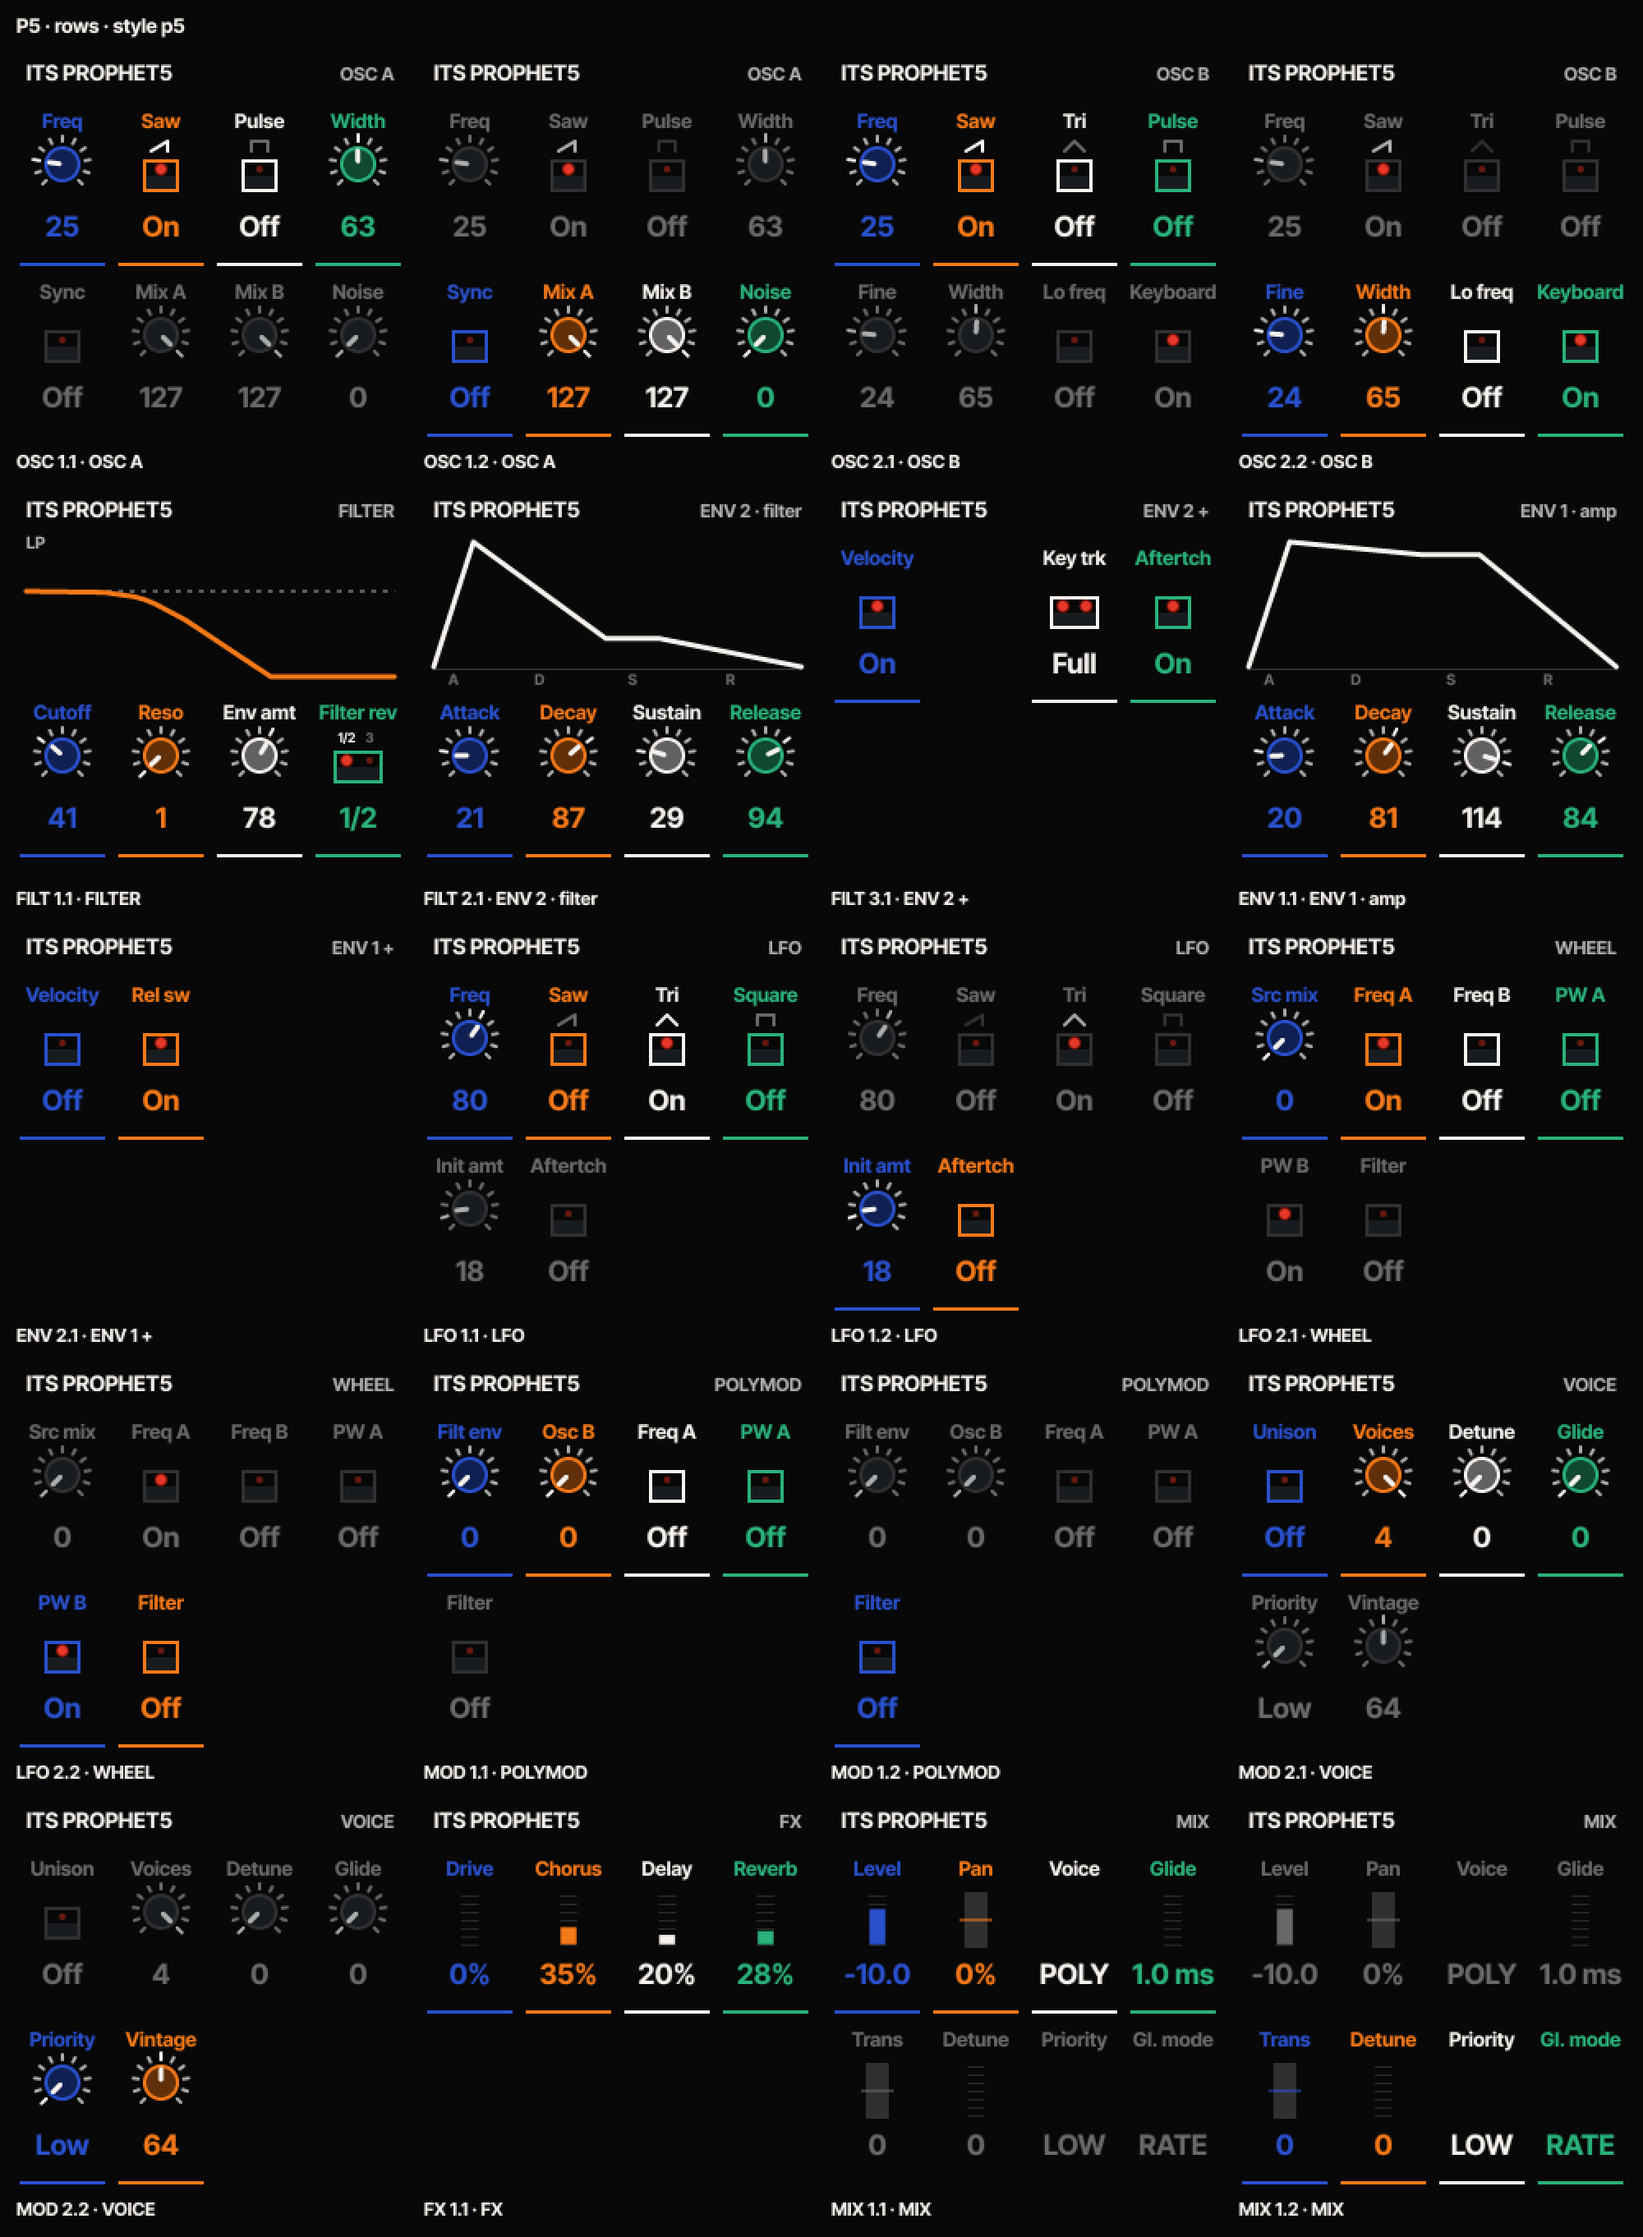
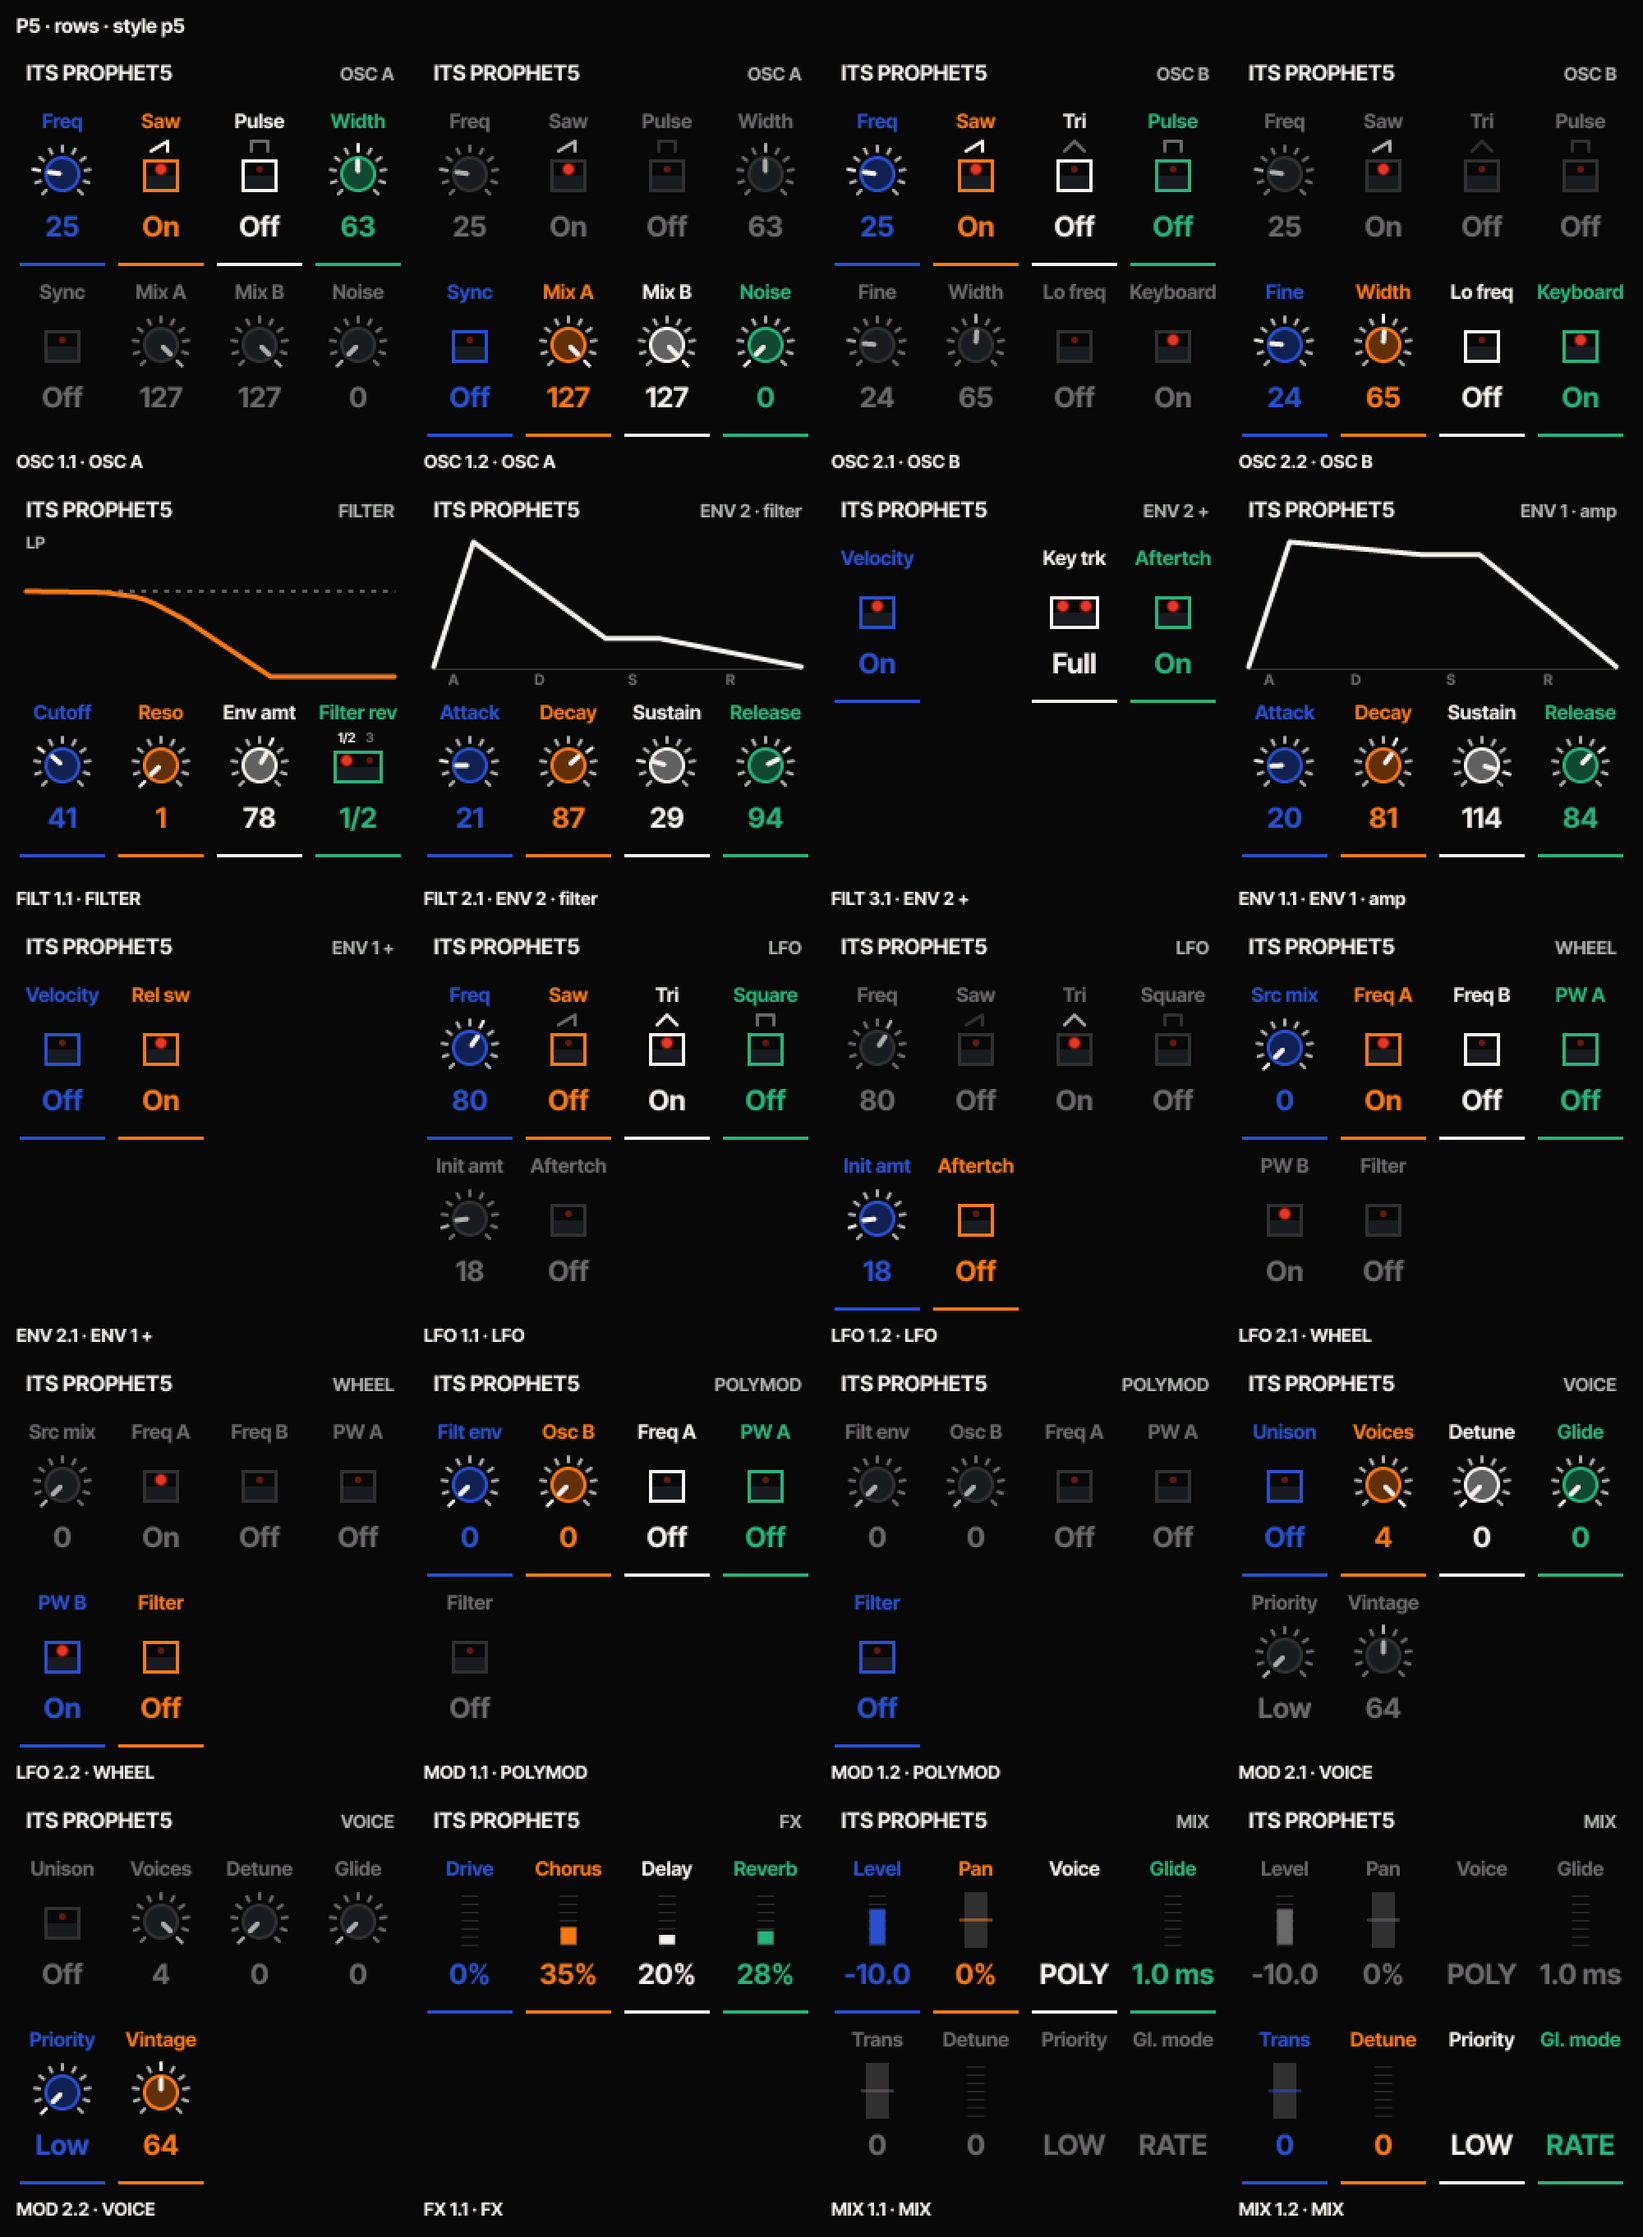
P5 knob glyph 6 px lower in a full-size cell, level with the button's LED; the knob sketches too
The owner, on OSC A: "the knob glyphs are vertically too high and not aligned with the button glyphs. I would like
the knob glyphs to be moved down vertically so they align." CR_G_P5KNOB's centre in the 34 px box is box + 18 (was
+ 12), the LED's height; the 22 px form unchanged; the sketch layer's K1 .. K6e follow. Six of the eight P5 cell
goldens change (the full-size knobs); the rows sheet rendered again; size unchanged.

diff --git a/web/fm1sketch.js b/web/fm1sketch.js
@@ -14,7 +14,8 @@
 // The glyphs are design/p5-glyph-mockups.html (round 1: K1 .. K6, B1 .. B5, S1 .. S3), -2 (K6a .. K6e, B1a .. B1d,
 // S4 .. S6), -3 (R1 .. R3) and -5 (K6d, B1a and S5 as chosen), drawn as there: the glyph centred 22 px under the
 // label's baseline (box.y + 12; the 22 px box: box.y + 10), so a sketch may reach a few pixels over the box (the
-// mock-ups' dials do); the page composites only the cell's column between its label and its value.
+// mock-ups' dials do; a knob in the 34 px box at box.y + 18, level with the buttons' LEDs, as the firmware's K6d since
+// the owner asked); the page composites only the cell's column between its label and its value.
 // To add one: a function here and a SK_REGISTRY line (its name lower case, a letter and a number, its note); a chosen
 // sketch becomes a firmware glyph by porting its function into cr_draw.c (cr_p5glyph is K6d / B1a / S5 / R3's).
 
@@ -250,7 +251,8 @@ export const SKETCH_WAVES = ["saw", "tri", "sqr"];
 // the registry's entries: {name, kind, round, note, draw(p, box, state)}
 export const SKETCHES = Object.fromEntries([...SK_REGISTRY].map(([k, v]) => [k, {
   name: v.name, kind: v.kind, round: v.round, note: v.note,
-  draw: (p, box, st) => v.f(p, box.x + (box.w >> 1), box.y + (box.h >= 30 ? 12 : 10), { ...st, C: { ...SK_MOCK, ...(st.C || {}) }, small: box.h < 30 }),
+  // (a knob in the 34 px box 6 px lower, level with the buttons' LEDs: the firmware's CR_G_P5KNOB, the owner's)
+  draw: (p, box, st) => v.f(p, box.x + (box.w >> 1), box.y + (box.h >= 30 ? (v.kind === "knob" ? 18 : 12) : 10), { ...st, C: { ...SK_MOCK, ...(st.C || {}) }, small: box.h < 30 }),
 }]));
 // a cell style -> {name, icon} when it is a known sketch ("sketch:k6d", "sketch:b1a-saw"), else null
 export function parseSketch(style) {

diff --git a/firmware/src/cr_draw.c b/firmware/src/cr_draw.c
@@ -1183,7 +1183,7 @@ static int cr_p5names(const char *b, int32_t n, const char **o)
 }
 /* a P5 cell's glyph (CR_G_P5*: docs/EDITOR.md section 9 "A cell"), in an edit8 cell's glyph box x .. x + w, y .. y + h
  * (px). A full-size cell's box (34 high): the owner's round-5 mock-up (design/p5-glyph-mockups-5.html), centred on
- * (x + w / 2, y + 12), the mock-up's 22 px under the label's baseline: K6d (the knob), B1a (the LED button and its
+ * (x + w / 2, y + 12), the mock-up's 22 px under the label's baseline (the knob 6 px lower, level with the LEDs): K6d (the knob), B1a (the LED button and its
  * wave), S5 (the two-LED lever), R3 (the two-LED button and its names). A 22 px box (two rows under a band): the
  * first pass's small variants. col: the column's colour on the active row, else T_DIM (the dim row's greys) */
 static void cr_p5glyph(const cr_cell_t *c, int32_t x, int32_t y, int32_t w, int32_t h, uint16_t col)
@@ -1197,8 +1197,10 @@ static void cr_p5glyph(const cr_cell_t *c, int32_t x, int32_t y, int32_t w, int3
         int16_t p[8];
         switch (c->glyph) {
         case CR_G_P5KNOB: {              /* K6d: 11 ticks (r 14 .. 17, 2 px; the nearest 18 and bright), the rim (r 9 ..
-                                          * 11) in the colour, the face its 40 %, the 3 px pointer (r 2 .. 8) */
+                                          * 11) in the colour, the face its 40 %, the 3 px pointer (r 2 .. 8); centred 6 px
+                                          * lower than the buttons' (box + 18: level with their LEDs, the owner's) */
             uint32_t pct = c->pct >= 255u ? 256u : c->pct, a = 24576u + 49152u * pct / 256u, k, near = (pct * 10u + 128u) / 256u;
+            cy16 += 6 * 16;
             for (k = 0; k <= 10u; k++) {
                 uint32_t ak = 24576u + 49152u * k / 10u;
                 int32_t r1 = k == near ? 18 * 16 : 17 * 16;

diff --git a/tests/cr_draw_test.c b/tests/cr_draw_test.c
@@ -547,9 +547,9 @@ static void p5cell_screens(const char *dir)
     p5cell_screen(&s, CR_W_NONE, 2, 0);           /* the glyphs' pixels: row A active at 30, row B dim at 134 */
     render(&s, 0);
     snprintf(name, sizeof name, "P5 cells: a lit LED red (%04x), the knob's nearest tick white (%04x), the saw white when on (%04x), "
-             "the dim row's square mid (%04x), the off LED dark (%04x)", p5px(90, 71), p5px(29, 52), p5px(93, 57), p5px(94, 161),
+             "the dim row's square mid (%04x), the off LED dark (%04x)", p5px(90, 71), p5px(29, 58), p5px(93, 57), p5px(94, 161),
              p5px(150, 71));
-    check(name, p5px(90, 71) == CR_RED && p5px(89, 70) == CR_RED && p5px(29, 52) == CR_WHITE && p5px(93, 57) == CR_WHITE &&
+    check(name, p5px(90, 71) == CR_RED && p5px(89, 70) == CR_RED && p5px(29, 58) == CR_WHITE && p5px(93, 57) == CR_WHITE &&
                 p5px(94, 161) == T_MID && p5px(150, 71) != CR_RED && p5px(149, 71) != CR_RED);
     snprintf(name, sizeof name, "P5 cells: the lever's LEDs count its position (Off %u, Half %u, Full %u: none, the left, both)", sw[0], sw[1], sw[2]);
     check(name, sw[0] == 0u && sw[1] == 1u && sw[2] == 3u);

diff --git a/docs/HISTORY.md b/docs/HISTORY.md
@@ -3792,7 +3792,11 @@ deterministic, the glyphs on all 17 engine rows, the white tick, the wave white 
 row, `cellAt`) and the Design self-test's 9th square (a click on OSC A's row B and on FILTER's one row selects the
 slot); `design/choralroot-fm1-p5-rows-screens.png` re-rendered (20 tiles, lint clean). **Checked**: test_layout 121
 ok, gen_layout_test 63, `sh tests/run_all.sh` ALL SUITES PASSED (22; test_cr 1009 ok, test_persist 111, test_retired
-18, test_pool 7, 313 golden renders 0 changed). Not done: on the unit; no engine uses the P5 glyphs yet.
+18, test_pool 7, 313 golden renders 0 changed). Not done: on the unit; no engine uses the P5 glyphs yet. Then the
+owner, on OSC A: "the knob glyphs are vertically too high and not aligned with the button glyphs. I would like the knob
+glyphs to be moved down vertically so they align": K6d's centre moved 6 px down (box + 18, level with the buttons'
+LEDs) in the 34 px box, the small form unchanged, the knob sketches (fm1sketch.js) with it; goldens p5cell_full_a,
+_full_b, _band1, _band1_env, _switch_0, _switch_2 rewritten (the two-lane band pictures unchanged).
 
 3y95. **Sketch glyphs in the layout designer: glyph variants drawn by the page in a cell's glyph box (2026-10-15; on
 lay-7 after 3y94, not committed).** The owner: "It doesn't have to stay that way. The designer can get a sketch layer:

diff --git a/docs/EDITOR.md b/docs/EDITOR.md
@@ -463,7 +463,9 @@ editor's greys (rim line, face surf, ticks dim, the bright tick and the pointer 
 - **knob** (`CR_G_P5KNOB`, K6d): eleven 2 px ticks, 3 px long (r 14 .. 17), mid grey, over the 270 degrees; the tick
   nearest the value white and 1 px longer (it matches the dial to a real P5's printed scale); a 2 px rim (r 9 .. 11) in
   the row colour; the face the row colour at 40 % (cr_draw's `ux_mix` toward black, the mock-up's `tintOf`); a 3 px
-  white pointer from 2 px off the centre to r 8; centre-zero parameters have their zero at 12 o'clock; no value inside;
+  white pointer from 2 px off the centre to r 8; centred 6 px lower than the buttons (box top + 18, level with their
+  LEDs: the owner, "the knob glyphs are vertically too high and not aligned with the button glyphs"); centre-zero
+  parameters have their zero at 12 o'clock; no value inside;
 - **LED button** (`CR_G_P5LED`, B1a): a 22 x 20 cap, its 2 px rim in the row colour, the face surf, the LED window (the
   top 8 px inside the rim) near-black; the LED a 6 px red disc in a 2 px dark-red halo when on, a 4 px dark-red dot
   off; `pct2` the one-cycle wave (saw, triangle, pulse: CR_P5I_*) as a 2 px line, 14 x 8, 4 px over the cap, **white

diff --git a/docs/LAYOUT-TOOL.md b/docs/LAYOUT-TOOL.md
@@ -375,7 +375,8 @@ still draws the cell (the label, the value, the row bars, the band, the hot bloc
   value block; the sketch does not change.
 - **Where**: the cell's glyph box as cr_draw.c's `cr_p_edit8` has it (`sketchBox`): a full-size row (no band; or one
   lane under a band at 124–224) its 34 px box at row + 26 (rows 30 / 134, or 124), the sketch centred at box + 12
-  (22 px under the label's baseline, as the mock-ups), drawn only in the cell's column between its label and its value
+  (22 px under the label's baseline, as the mock-ups; a knob at box + 18, level with the buttons' LEDs, as the
+  firmware's K6d), drawn only in the cell's column between its label and its value
   (row + 19 .. row + 68); two lanes under a band (rows 124–180 / 184–240) the 22 px box at row + 15, centred at
   box + 10, drawn in row + 14 .. row + 40, the chosen four with their small forms. On edit8 screens only (a stack has
   no glyph box: the lint says so).
